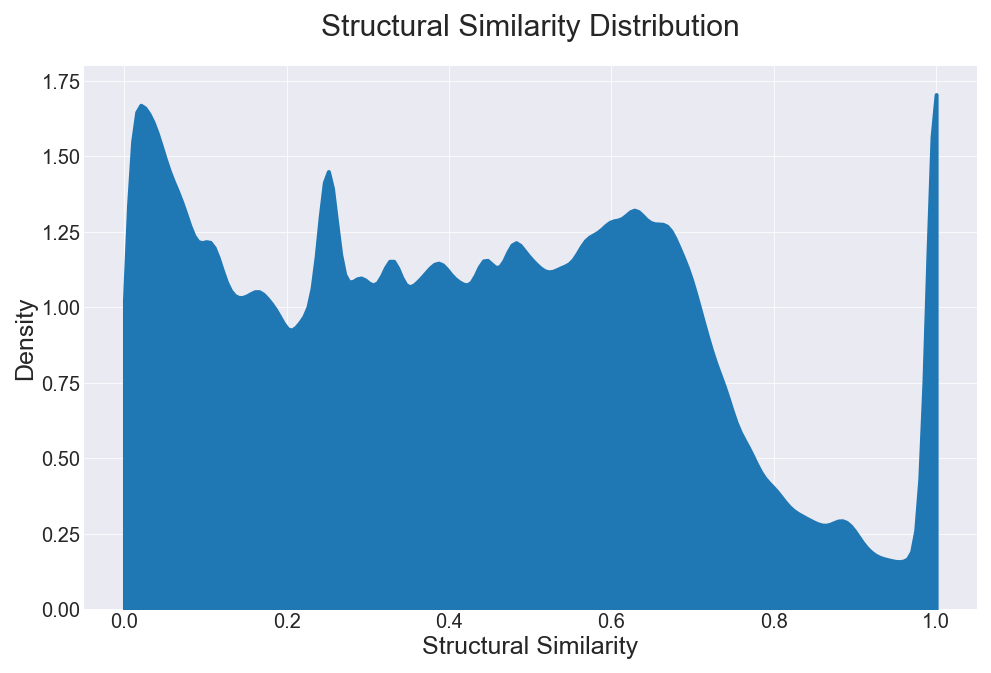
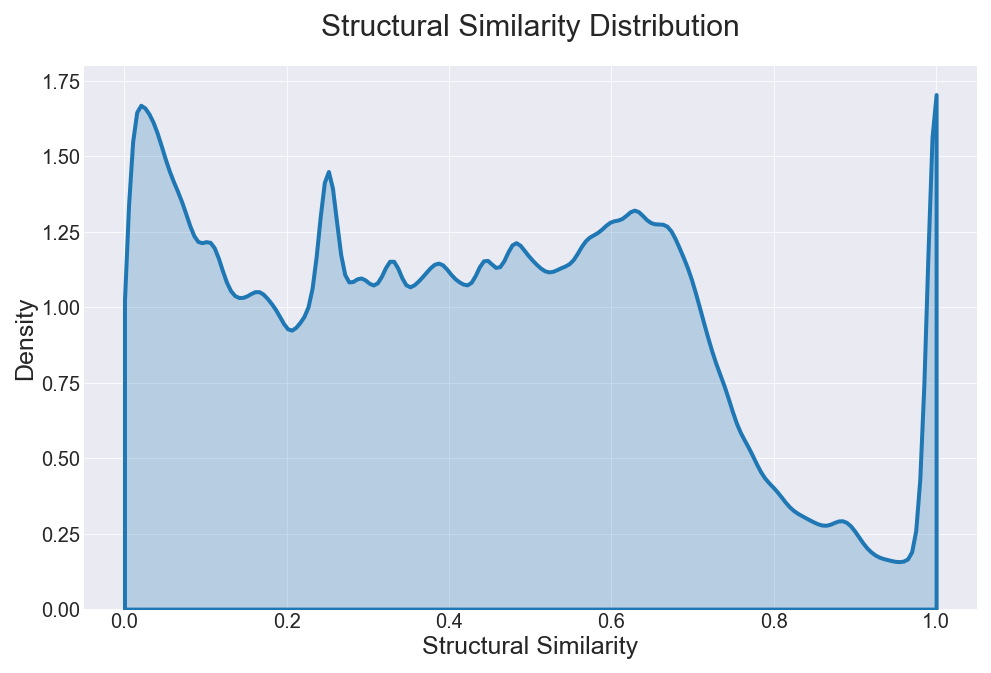
Minor fig changes

diff --git a/03-cd1/03-ss_scores.py b/03-cd1/03-ss_scores.py
@@ -121,13 +121,13 @@ allwj = pd.read_hdf('support_data/ss_scores.h5', key='df')
 
 plt.figure(figsize=[16, 10])
 sns.kdeplot(allwj, clip=(0, 1), bw_adjust=0.3, fill=True,
-            linewidth=params['lines.linewidth'], alpha=1)
+            linewidth=params['lines.linewidth'])
 plt.ylim([0, 1.8])
 plt.yticks(np.arange(0, 2, 0.25))
 plt.title('Structural Similarity Distribution')
 plt.xlabel('Structural Similarity')
 plt.savefig('figures/ssdist.svg')
-plt.savefig('figures/ssdist.eps')
+plt.savefig('figures/ssdist.pdf')
 plt.savefig('figures/ssdist.png')
 plt.show()
 
